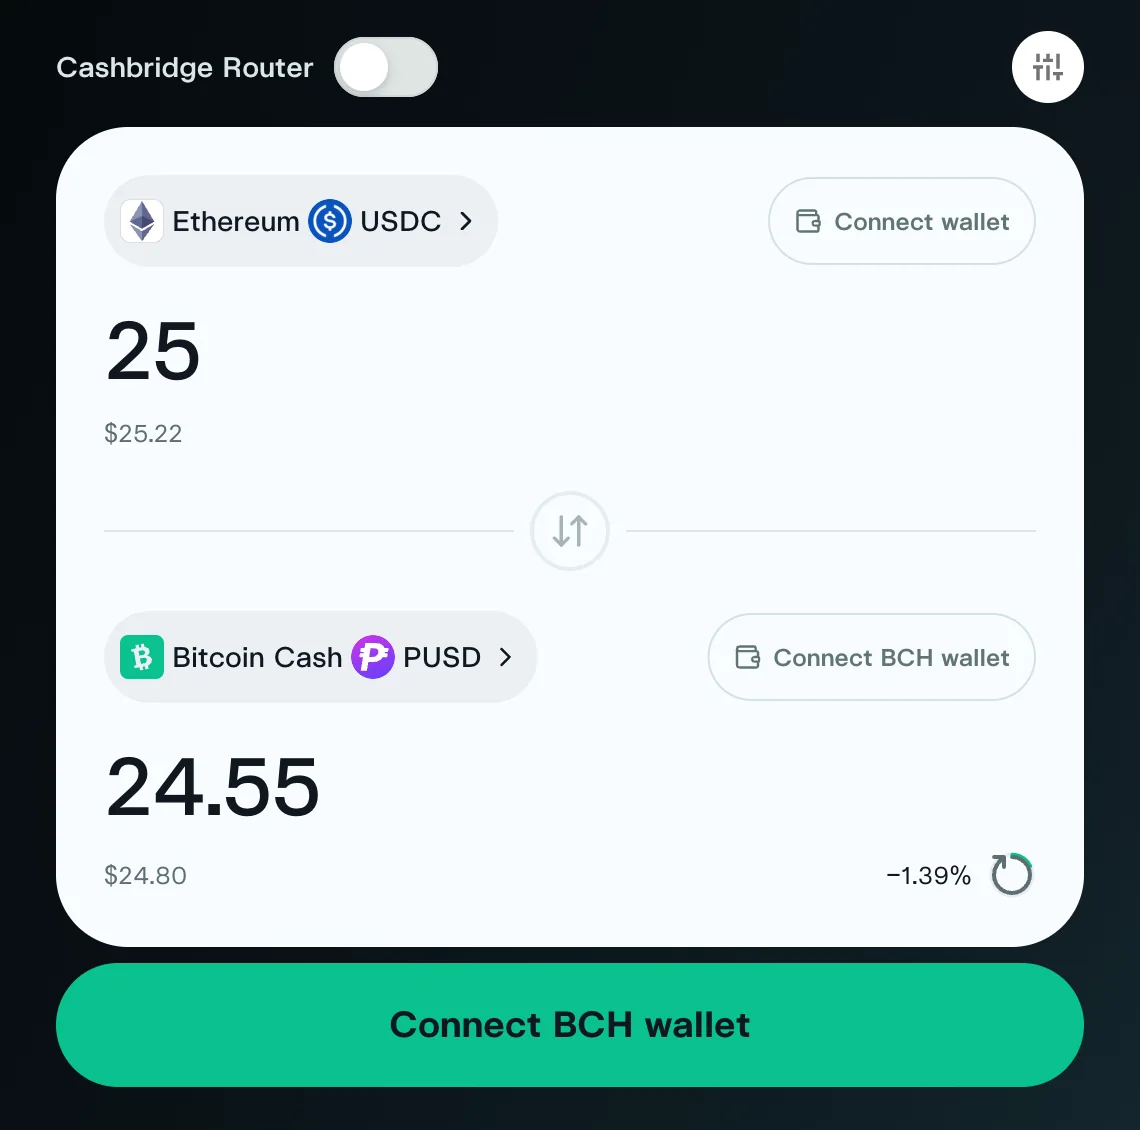
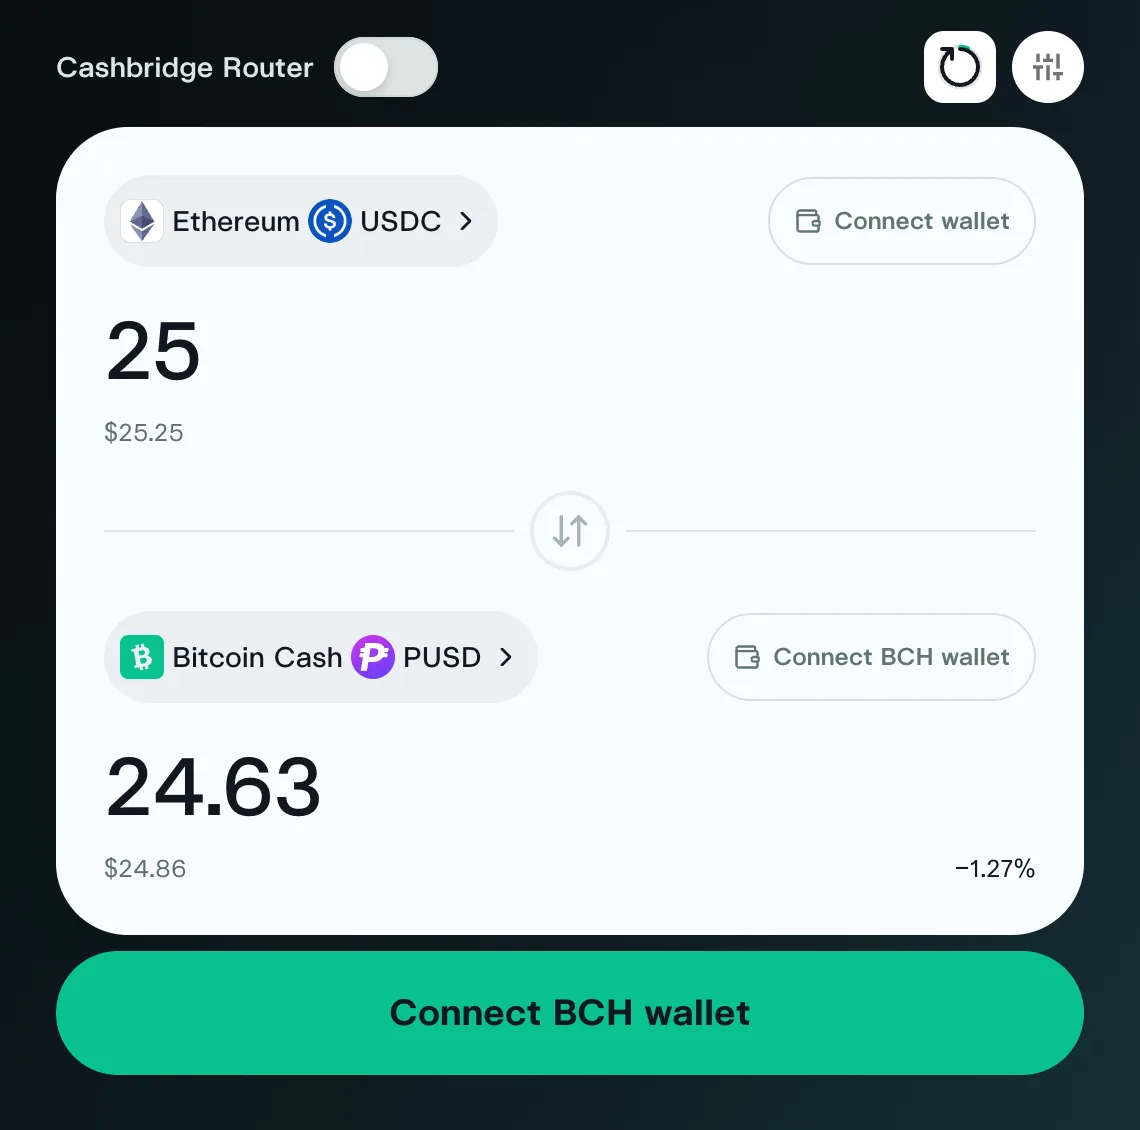
Show the refresh button in the docs screenshots
The bridge forms and the router shots now have the white refresh square
next to Settings and no ring beside the price impact. Captions follow the
new estimates.

Claude-Session: https://claude.ai/code/session_01XPdXSDgDwiMZ3mRm87hLPh

diff --git a/src/app/docs/guides/bridge-to-bch/page.tsx b/src/app/docs/guides/bridge-to-bch/page.tsx
@@ -43,7 +43,7 @@ export default function Page() {
           <p>
             Type the amount to send. Below it you see the estimated amount you will receive and, next to it, the price impact. The square button with a ring at the top right, next to the sliders, counts down to the next refresh of the quote and your wallet balances; press it to refresh them now. Hover over the amount to get 25%, 50%, 75% and MAX shortcuts once your wallet&apos;s balance is known.
           </p>
-          <Shot name="form-forward" alt="The form with 25 USDC on Ethereum and an estimate of 24.55 PUSD" caption="25 USDC is estimated at about 24.55 PUSD. The estimate is not a promise; the minimum you accept is shown before you sign." />
+          <Shot name="form-forward" alt="The form with 25 USDC on Ethereum and an estimate of 24.63 PUSD" caption="25 USDC is estimated at about 24.63 PUSD. The estimate is not a promise; the minimum you accept is shown before you sign." />
           <p>
             To change how far the price may move against you before the swap is refunded, open the sliders button at the top right. The default is 1%. See <Link href="/docs/fees#slippage">Price impact and slippage</Link>.
           </p>

diff --git a/src/app/docs/page.tsx b/src/app/docs/page.tsx
@@ -14,7 +14,7 @@ export default function Page() {
       title="Introduction"
       lead="Cash Bridge moves value between Bitcoin Cash and the rest of crypto. Send an asset from Bitcoin, Ethereum, Base, Solana or another chain and receive BCH or a CashToken such as PUSD. Or go the other way."
     >
-      <Shot name="form-forward" alt="The Cash Bridge form: 25 USDC on Ethereum to about 24.55 PUSD on Bitcoin Cash" caption="The bridge form. Pick what to send, what to receive and an amount; the estimate updates as you type." />
+      <Shot name="form-forward" alt="The Cash Bridge form: 25 USDC on Ethereum to about 24.63 PUSD on Bitcoin Cash" caption="The bridge form. Pick what to send, what to receive and an amount; the estimate updates as you type." />
 
       <h2 id="what-you-can-do">What you can do</h2>
       <ul>

diff --git a/src/app/docs/guides/bridge-from-bch/page.tsx b/src/app/docs/guides/bridge-from-bch/page.tsx
@@ -23,7 +23,7 @@ export default function Page() {
           <p>
             Press the arrows between the two fields. The heading changes to <strong>Bridge from Bitcoin Cash</strong>. The top field now holds the token you sell and the bottom one the asset you receive.
           </p>
-          <Shot name="form-reverse" alt="The reversed form: sell 20 PUSD on Bitcoin Cash, receive about 19.70 USDC on Ethereum" caption="20 PUSD is estimated at about 19.70 USDC on Ethereum." />
+          <Shot name="form-reverse" alt="The reversed form: sell 20 PUSD on Bitcoin Cash, receive about 19.51 USDC on Ethereum" caption="20 PUSD is estimated at about 19.51 USDC on Ethereum." />
         </Step>
 
         <Step title="Pick the assets and an amount">
